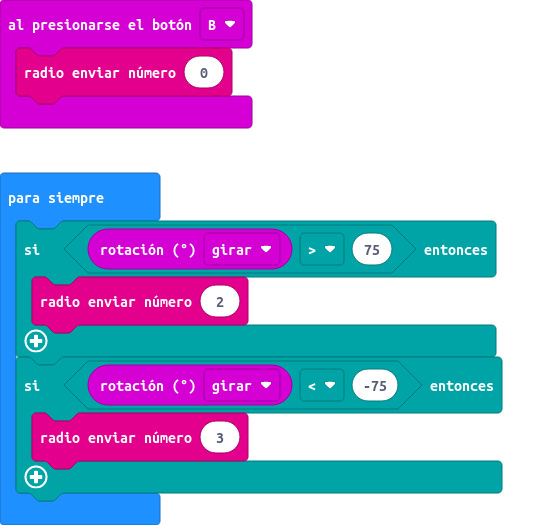
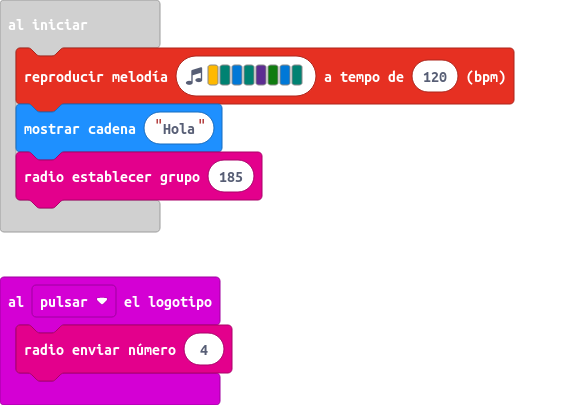
jdjd

diff --git a/main.ts b/main.ts
@@ -1,9 +1,14 @@
+input.onLogoEvent(TouchButtonEvent.Pressed, function () {
+    radio.sendNumber(4)
+})
 input.onButtonPressed(Button.A, function () {
     radio.sendNumber(1)
 })
 input.onButtonPressed(Button.B, function () {
     radio.sendNumber(0)
 })
+music.playMelody("A F E F D G E F ", 120)
+basic.showString("Hola")
 radio.setGroup(185)
 basic.forever(function () {
     if (input.rotation(Rotation.Roll) > 75) {
